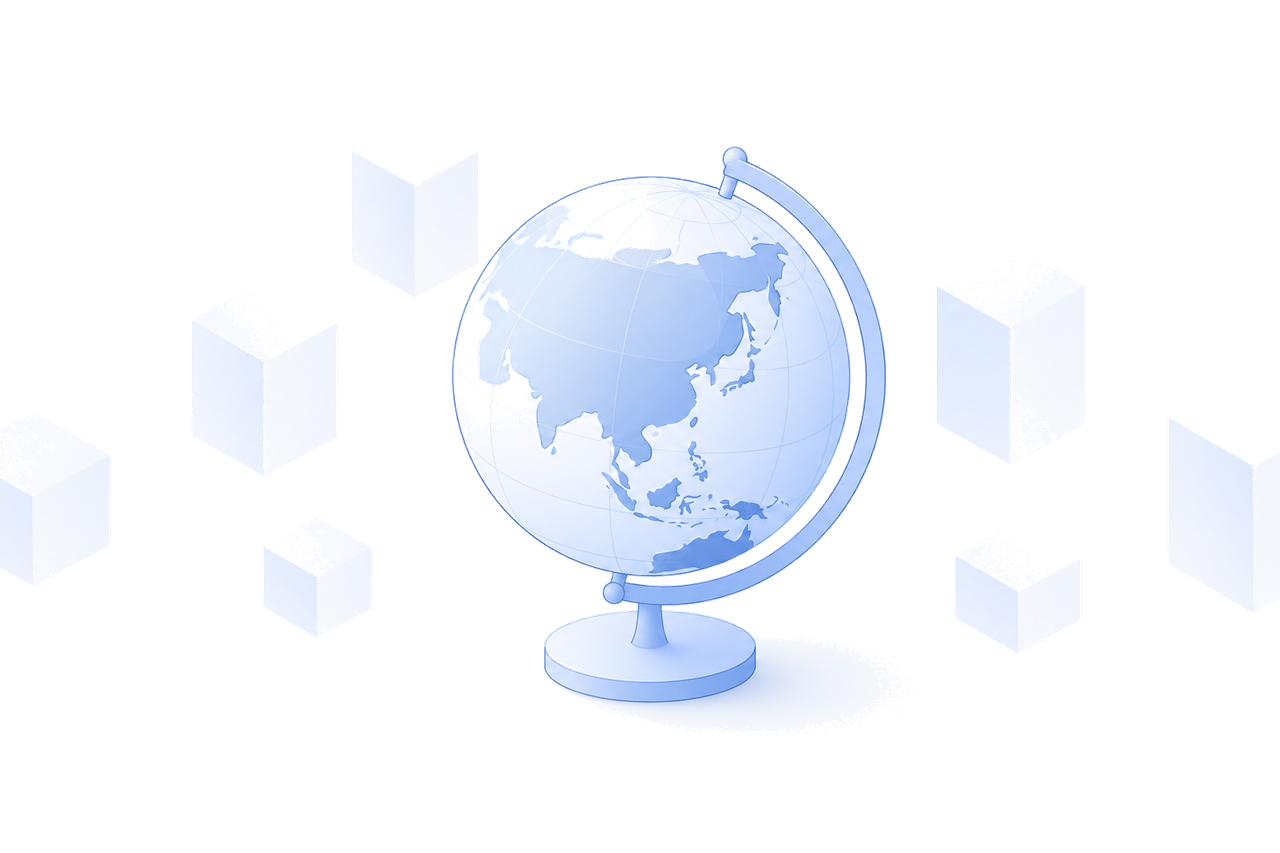
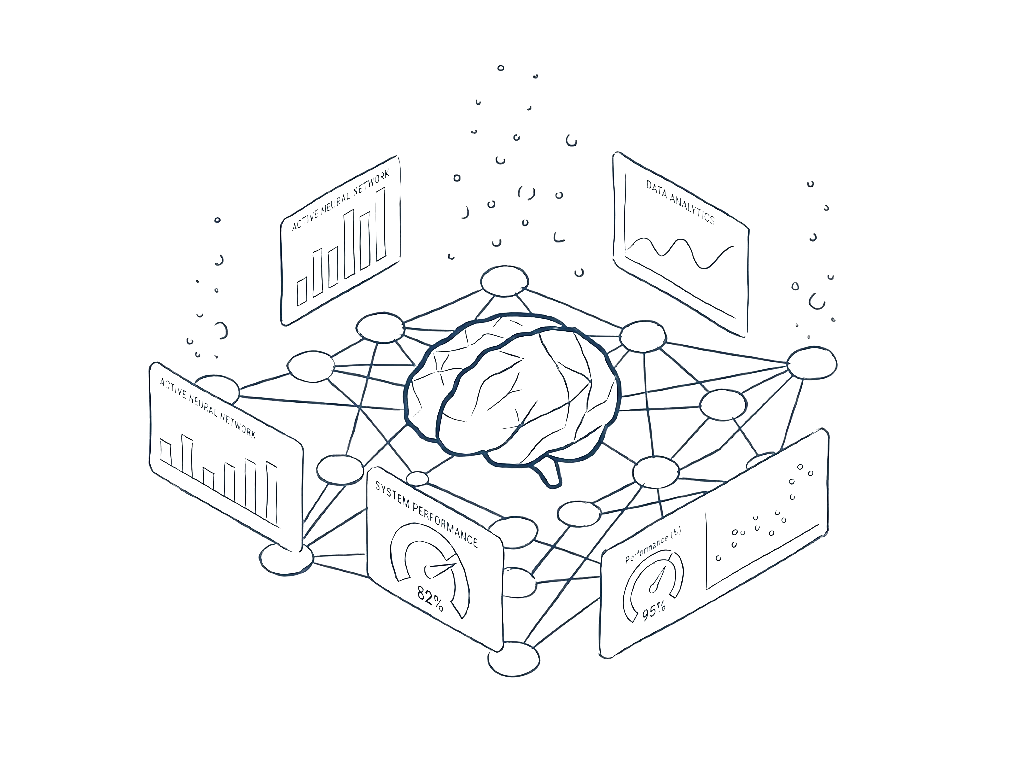
更新首页 hero 插图并优化引用样式
替换右侧神经网络插图（真透明 PNG），并将关于我们引用语改为斜体。

diff --git a/index.html b/index.html
@@ -907,11 +907,7 @@
                         </div>
                     </div>
                     <div class="flex flex-col items-center justify-center gap-5 lg:gap-6 order-1 lg:order-2">
-                        <picture>
-                            <source srcset="assets/above-slogan.webp" type="image/webp" />
-                            <img class="hero-visual-image" src="assets/above-slogan.png"
-                                alt="未名 AI 简约 3D 地球仪与等距立方体插图" />
-                        </picture>
+                        <img class="hero-visual-image" src="assets/above-slogan.png" alt="未名 AI 神经网络与数据分析等距插图" />
                         <p class="hero-quote text-center font-headline-md text-base lg:text-lg italic tracking-[0]"
                             data-zh-html="&ldquo;让每一行代码，都服务于可衡量的业务增长。&rdquo;"
                             data-en-html="&ldquo;Every line of code serves measurable business growth.&rdquo;">
@@ -1483,7 +1479,7 @@
                             </div>
                             <!-- Quote -->
                             <div class="pt-8 border-t border-primary/5">
-                                <p class="font-body-lg text-xl lg:text-2xl text-primary font-medium leading-relaxed"
+                                <p class="font-body-lg text-xl lg:text-2xl text-primary font-medium italic leading-relaxed"
                                     data-zh-html="&ldquo;我们不只是代码的敲击者，而是一群将国际化视野融入本土商业现场，帮企业在复杂业务中构建数据闭环的 AI 产品工程专家。&rdquo;"
                                     data-en-html="&ldquo;We are not just coders — we are AI product engineers who blend international perspective with local business execution, helping enterprises build data loops in complex operations.&rdquo;">
                                     "我们不只是代码的敲击者，而是一群将国际化视野融入本土商业现场，帮企业在复杂业务中构建数据闭环的 AI 产品工程专家。"</p>